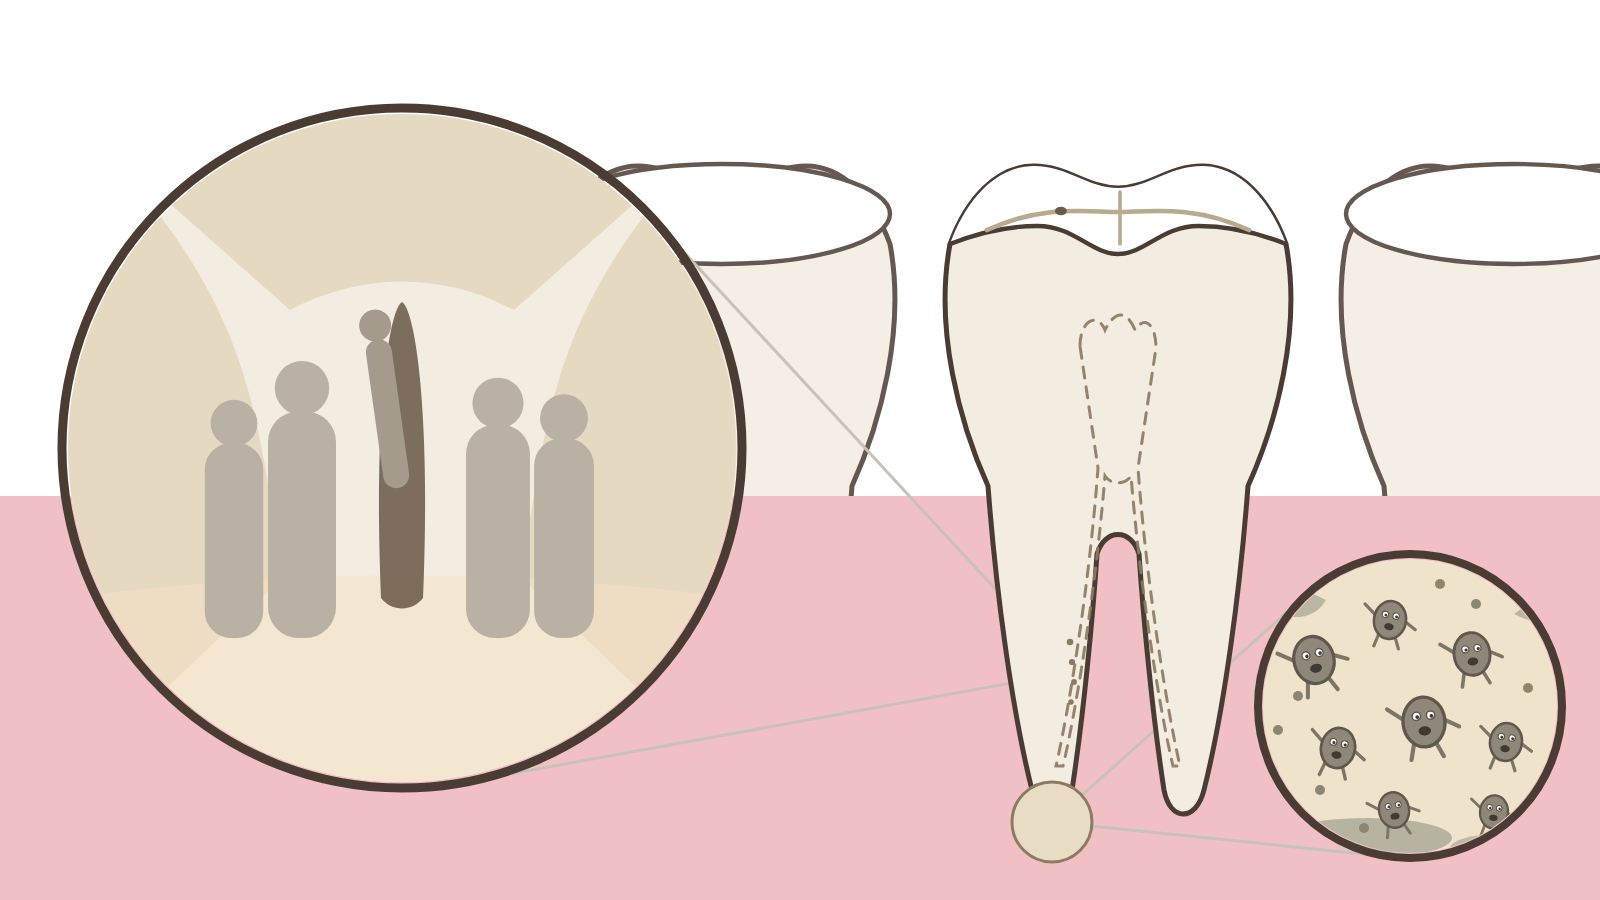
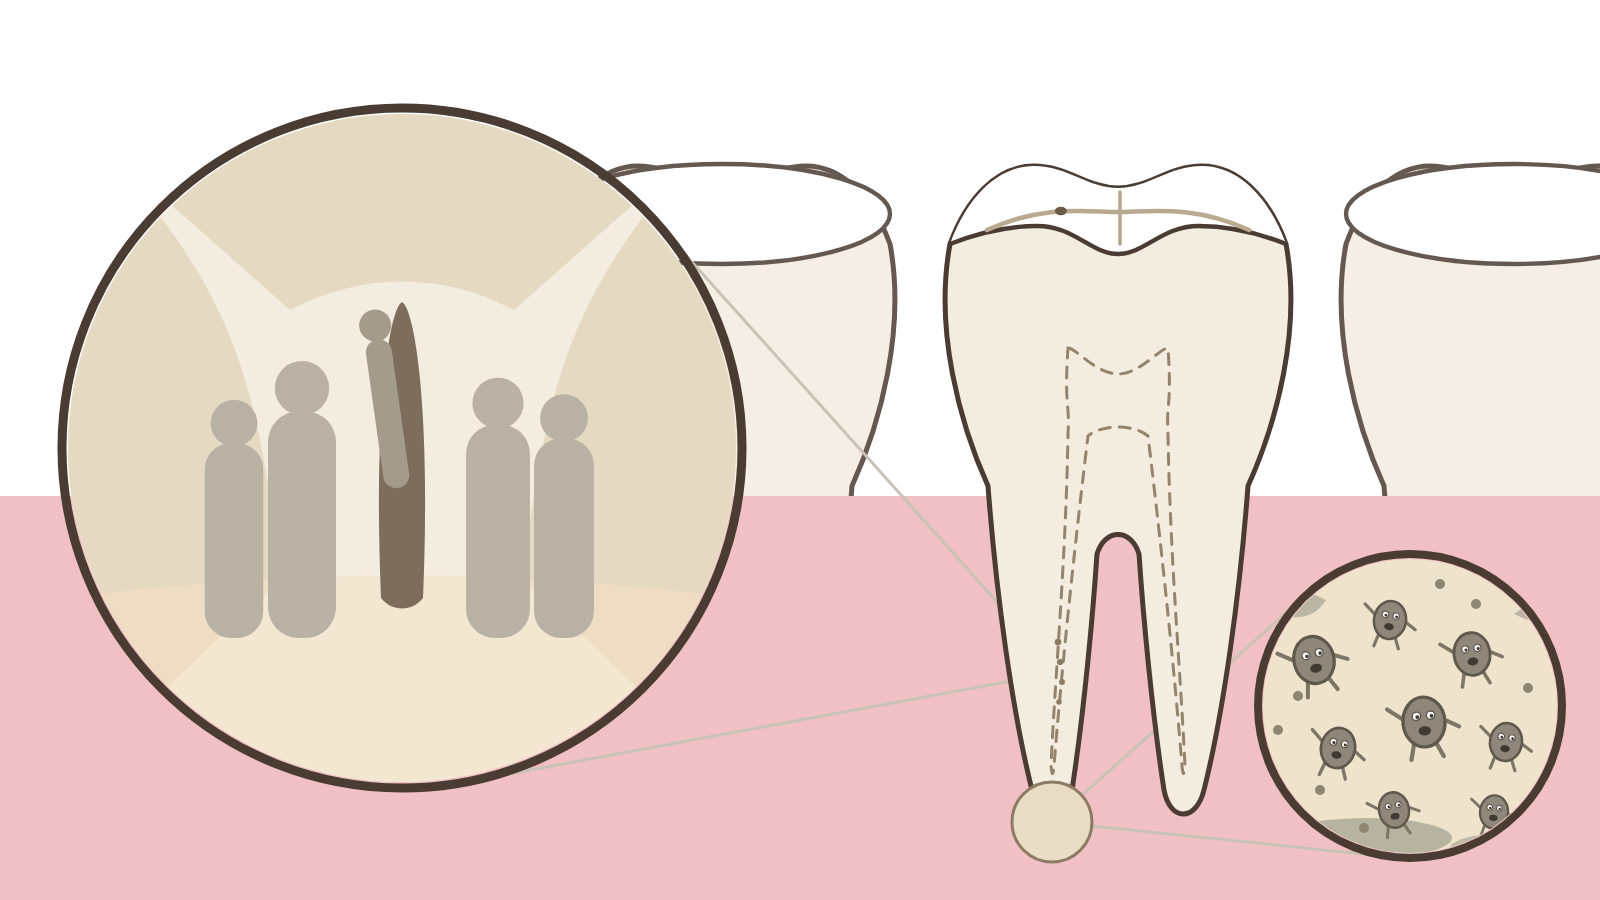
〈根管鈣化〉HERO 第十一輪：牙髓腔與根管重畫成順著牙根走、更細更扁
使用者給了一張標準的牙齒剖面圖並指出三件：根管要隨著牙根的形狀流線地走、
鈣化的根管比那張圖還細、髓腔比那張圖更窄扁。

參考圖照這個重畫：
・根管從髓腔底的兩端出發，跟著牙根一起彎、離兩側牙根壁始終等距，
  到根尖前收成一個點（不再是兩條插進去的線）。
・髓腔壓扁壓窄：髓角 TOP+134、中間只凹到 TOP+160、底 CEJ-52 再往上拱 10。
・⚠ 第一版中間凹了 50px，中間被夾到只剩 42px 高，整個形狀讀成上下兩塊 ——
  而提示詞裡明明寫著「一整條連起來、不可以分開」。規則要用參考圖的比例守住。
・根管上那四顆小點跟著搬（ZX 從 TX-46 改成 TX-58）。

提示詞那一段整段重寫，AVOID 補五條。
他那張照片沒有當成第四張參考圖（畫法差太遠），留在 pulp-ref.png 當紀錄。

Claude-Session: https://claude.ai/code/session_0131yZgrnMDF1Q9xBCBg3Gcp

diff --git a/drafts/pulp-calcification/hero-prompt.md b/drafts/pulp-calcification/hero-prompt.md
@@ -460,3 +460,37 @@ node tools/webp.mjs
 ⚠ 通則：**判斷一個形狀對不對，要放回它要被畫進去的那個視角裡看**。
 「壓扁的橢圓」單看沒有錯，錯在它假設的視角和整張圖不同 ——
 而這種錯**在參考圖上看起來還很合理**，只有出圖回來才看得出牙齒變平頭。
+
+## 一之十、第十一輪（2026-09-21）：牙髓腔與根管的虛線
+
+> 「牙髓腔和根管的虛線要調整
+> 　像這張照片　根管是隨著牙根的形狀呈現比較流線的感覺。但鈣化的根管會變的很細
+> 　甚至比這張圖片還細。牙髓腔也會變的比圖片上窄扁一點」
+> （附一張標準的牙齒剖面圖，`drafts/pulp-calcification/pulp-ref.png`）
+
+他給的是**一個正常的形狀 ＋ 兩個往哪個方向偏離的量**，這種交代最好做，照著改就是：
+
+| | 照片（正常牙） | 我們要的（鈣化牙） |
+| --- | --- | --- |
+| 根管 | 順著牙根彎、流線、收成一點 | **同樣流線，但更細**（細到幾乎只剩那條虛線本身） |
+| 髓腔 | 有兩個髓角、方方的一塊 | **更窄、更扁**，底還往上拱 |
+
+參考圖 `cave-ref.mjs` 照這個重畫了一次：
+
+- **根管走牙根的中線**（不是兩條插進去的直線）—— 從髓腔底的兩端出發，
+  跟著牙根一起彎，離兩側牙根壁**始終等距**，到根尖前收成一個點。
+- **髓腔壓扁壓窄**：髓角 `TOP+134`、中間只凹到 `TOP+160`、底 `CEJ-52` 再往上拱 10。
+- ⚠⚠ 中間那個凹**不可以太深**：第一版凹了 50px，中間被夾到只剩 42px 高，
+  整個形狀就讀成「上下兩塊」而不是一個腔 —— 而**提示詞裡明明寫著
+  「一整條連起來、不可以是分開的幾塊」**。
+  ⚠ 通則：**「一個形狀不可以斷開」這種規則，在參考圖上是用比例守住的，不是用文字。**
+  文字寫得再清楚，參考圖畫成兩塊，出圖就是兩塊。
+- 根管上那四顆小點跟著搬（`ZX` 從 `TX-46` 改成 `TX-58`）—— **管子動了，
+  釘在管子上的東西就要一起動**，不然點會飄在牙本質裡。
+
+提示詞那一段整段重寫，`AVOID` 補五條：管子不可以像一般牙科插圖那麼粗、
+不可以畫成直棒子、不可以偏到貼著牙根壁、髓腔不可以高大方正、底不可以是平的或凹的。
+
+⚠ **沒有把他那張照片當成第四張參考圖** —— 形狀已經寫進 `cave-ref.png` 了，
+而那張照片的畫法（藍色、平塗、對稱、純剖面）和這張圖差很遠，附上去只會多一組要擋的東西
+（ILLUSTRATION.md 第十二節：一組參考圖只准提供一件事）。照片留在 `pulp-ref.png` 當紀錄。
